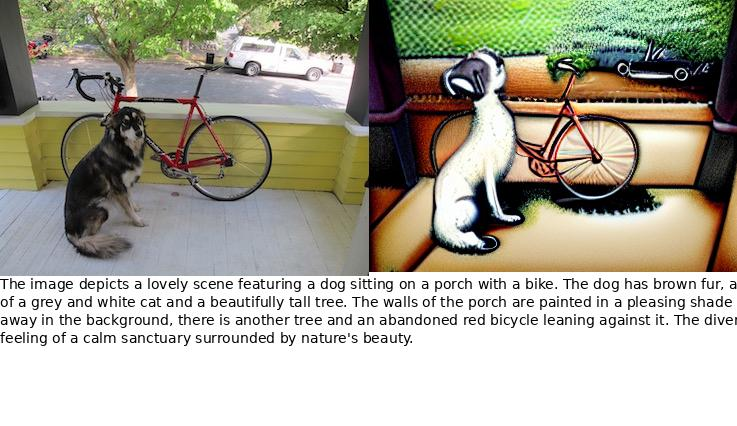
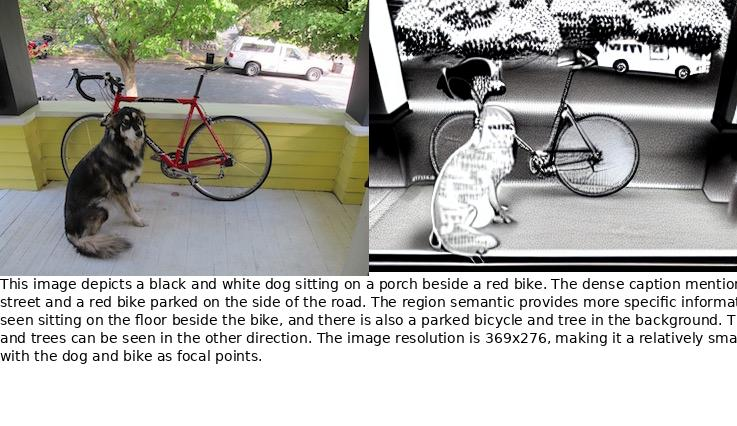
update demo

diff --git a/models/gpt_model.py b/models/gpt_model.py
@@ -7,7 +7,7 @@ class ImageToText:
 
     def initialize_template(self):
         prompt_prefix_1 = """Generate only an informative and nature paragraph based on the given information(a,b,c,d):\n"""  
-        prompt_prefix_2 = """a. Image Resolution:  """
+        prompt_prefix_2 = """/\n a. Image Resolution:  """
         prompt_prefix_3 = """/\n b. Image Caption: """
         prompt_prefix_4 = """/\n c. Dense Caption: """
         prompt_prefix_5 = """/\n d. Region Semantic: """

diff --git a/models/grit_model.py b/models/grit_model.py
@@ -32,7 +32,8 @@ class DenseCaptioning():
         # print('*'*100)
         # print("Output:", output)
         print("Step2, Dense Caption:\n")
-        print(output.split('[START]'[-1]))
+        # print(output.split('[START]'[-1]))
+        print(output)
         print('\n'+'*'*100)
         return output
     

diff --git a/readme.md b/readme.md
@@ -53,10 +53,13 @@
 
 Please find installation instructions in [install.md](install.md).
 
-## 1. News and To Do List
 
-### News
-- Our project is very popular in twitter. Looking [the posted twitter](https://twitter.com/awinyimgprocess/status/1646225454599372800?s=46&t=HvOe9T2n35iFuCHP5aIHpQ) for details.
+<p align="left">
+  <img src="examples/icon/news.gif" alt="Your Image Description" width=100>  <strong><span style="font-size: 24px;">News</span></strong>
+</p>
+
+
+- 14/April/2023. Our project is very popular in twitter. Looking [the posted twitter](https://twitter.com/awinyimgprocess/status/1646225454599372800?s=46&t=HvOe9T2n35iFuCHP5aIHpQ) for details.
 
 ### To Do List
 
@@ -93,6 +96,9 @@ The generated text and image are show in "output/".
 
 **Note: Use GPT4 for good result as GPT3.5 miss the position information sometime.**
 
+
+**Note: If you find GRIT model not works, comment stdout=subprocess.DEVNULL, stderr=subprocess.DEVNULL in line 26 of grid_models.py to see error message.**
+
 ## Use gradio directly
 
 ```bash
@@ -105,22 +111,50 @@ If you have GPU Memory larger than 20GB.
 Use device='cuda' as default.
 
 
-## 3. Segment Visualization
+## 3. Visualization
 
+<!-- % a dog sitting on a porch with a bike -->
 
 <center>
+
+<head>
+  <style>
+    table {
+      font-size: 8px; /* Adjust the font size as needed */
+      padding: 2px;
+    }
+    /* img {
+      width: 300px; /* Adjust the image width as needed */
+      /* height: auto; Uncomment this line if you want to maintain aspect ratio */
+    } */
+  </style>
+</head>
+<body>
+
 <table>
   <tr>
     <td>
-      <img src="examples/segment_anything_example.jpg" alt="Your Image Description" width=220>
+      <img src="examples/3.jpg" alt="Your Image Description" width=300>
     </td>
     <td>
-      <img src="examples/semantic_segment_example.png" alt="Your Image Description" width=220>
+      A dog sitting on a porch with a bike.
+    </td>
+    <td>
+      <img src="examples/3_grit.jpg" alt="Your Image Description" width=300>
+    </td>
+    <td>
+      <img src="examples/3_semantic_segment_anything.png" alt="Your Image Description" width=300>
+    </td>
+    <td style="font-size: 4px;">
+      This image depicts a black and white dog sitting on a porch beside a red bike. The dense caption mentions other objects in the scene, such as a white car parked on the street and a red bike parked on the side of the road. The region semantic provides more specific information, including the porch, floor, wall, and trees. The dog can be seen sitting on the floor beside the bike, and there is also a parked bicycle and tree in the background. The wall is visible on one side of the image, while the street and trees can be seen in the other direction. 
     </td>
   </tr>
   <tr>
-    <td align="center">Segment Anything Mask</td>
+    <td align="center">Input</td>
+    <td align="center">BLIP2 Image Caption </td>
+    <td align="center">GRIT Dense Caption </td>
     <td align="center">Semantic Segment Anything </td>
+    <td align="center">GPT4 Generated Paragraph </td>
   </tr>
 </table>
 
@@ -136,6 +170,10 @@ Use device='cuda' as default.
 
 
 Interesting, we find compress image into paragraph. The retrieval result is even better than use source image.
+
+
+## Others
+If you have more suggestions or functions need to be implemented in this codebase, feel free to drop me an email awinyimg dot gmail dot com or open an issue.
 
 ## Acknowledgment
 
